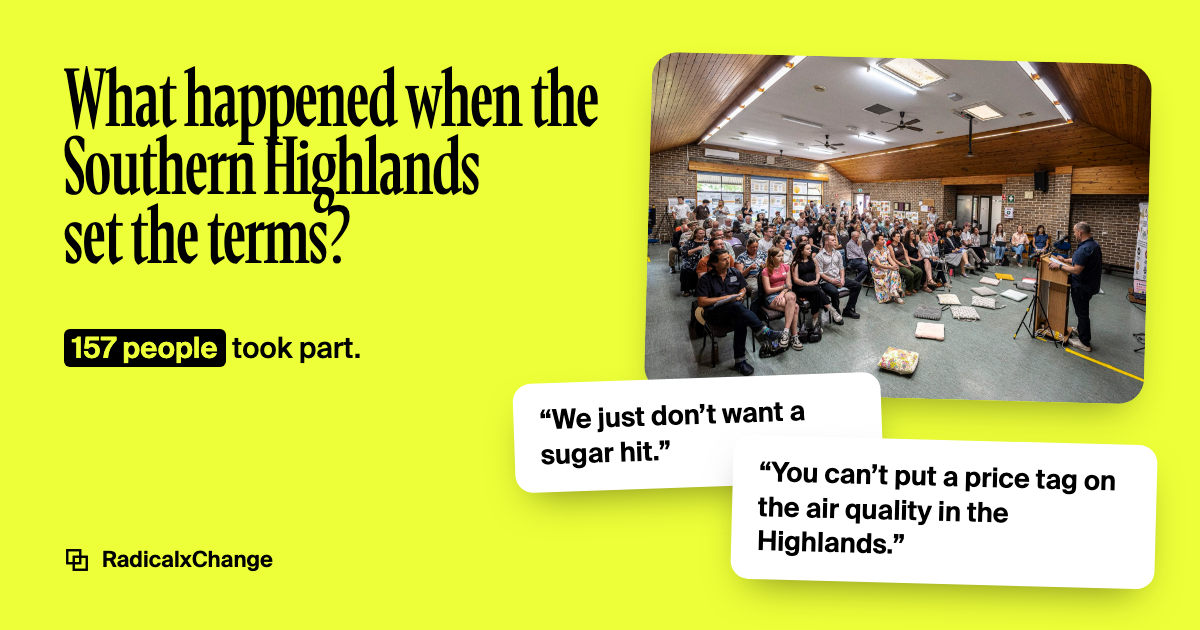
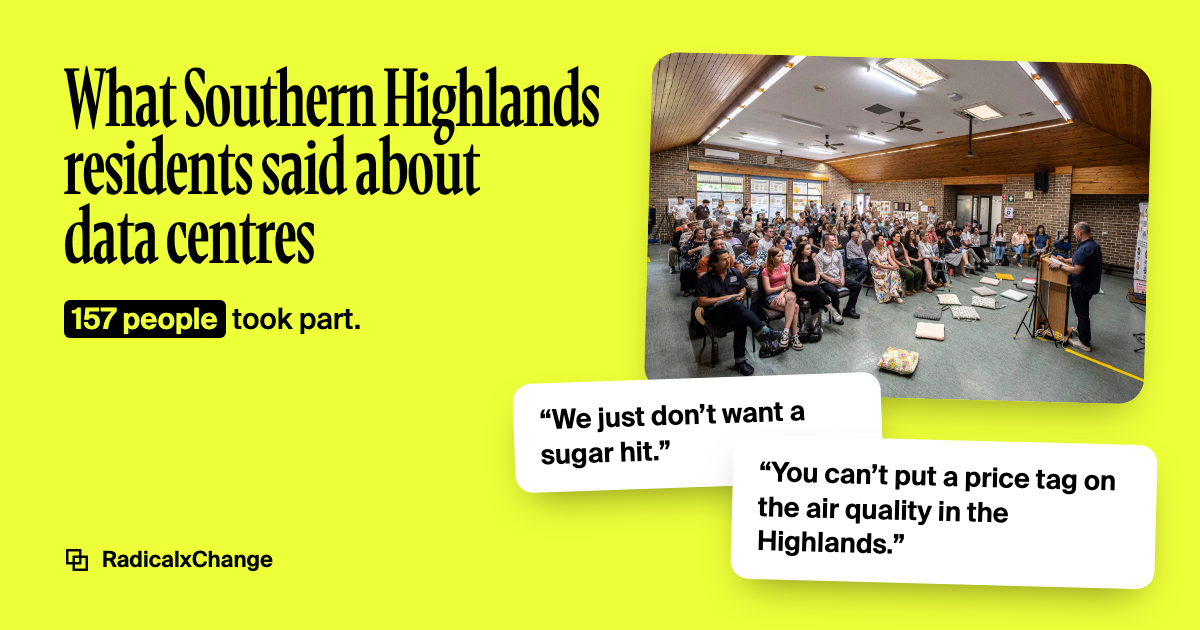
Southern Highlands page: clearer on consent, recruitment and the no
- Headline: "What Southern Highlands residents said about data centres".
- The hero says many residents don't want a data centre here at all.
- The sticker, and the /projects card, now show the 92% who agreed the
  community should have a say in whether and how data centres proceed.
- Under the principles: an informed no is as valid as a conditional yes,
  and the work should not be cited as evidence of community support for,
  or consent to, a particular development.
- The principles and partner roles now match the partner's published
  model.
- "How this worked" says plainly how participants were chosen.
- The priority vote says it ranked conditions and did not ask whether a
  data centre should go ahead; agreement sits alongside difference.
- "What happens next" adds residents' call for a pause and the community
  partner's support for a moratorium.
- No funding ask on this page.
- "Counter-offer" is gone from the home page and /projects, and the home
  page status is current.
- Link-preview image and README updated.

Changed region(s): [[0.0308, 0.0905, 0.5242, 0.4222], [0.0308, 0.4524, 0.3083, 0.6032]]

diff --git a/src/site/southern-highlands-data-centres/README.md b/src/site/southern-highlands-data-centres/README.md
@@ -31,12 +31,16 @@ statements in a fold); the conditions people want most (the whole priority
 vote as one ranked list); what the small groups said, in residents' own
 words; how it worked; and what happens next.
 
-The headline is "What happened when the Southern Highlands set the terms?",
-and the hero answers it. The lede, trimmed from a partner's draft: "After
-years of fighting proposals it never asked for, most recently a gas-powered
-data centre near Moss Vale, the Southern Highlands got on the front foot.
-Most residents who took part are sceptical of a data centre here. But
-together they set out the terms one would have to meet." It names no terms:
+The headline is "What Southern Highlands residents said about data centres"
+(a partner's wording; until 16 November 2026 it was "What happened when the
+Southern Highlands set the terms?", which could be read as the language of a
+deal). The lede, trimmed from a partner's draft: "After years of fighting
+proposals it never asked for, most recently a gas-powered data centre near
+Moss Vale, the Southern Highlands got on the front foot. Most residents who
+took part are sceptical of a data centre here, and many don't want one at
+all. But together they set out the terms one would have to meet." "Many don't
+want one at all" rests on the four outright-no statements: 35 of the 54
+people who voted on at least one agreed with at least one. It names no terms:
 the principles section just below gives them, in the community's own words
 (Jack's call, 16 November 2026). Until then six terms followed, each backed by
 a statement most of both groups agreed with or a top-seven priority-vote
@@ -108,9 +112,10 @@ Jess, who ran the project, reviewed the preview. What changed, and why:
   which read as the community giving in. They were "What would the Southern
   Highlands accept, and why?" and "A better bargain starts with a community
   that can say clearly what it would accept, and why." (a line the original
-  brief had fixed word for word). They are now "What happened when the
+  brief had fixed word for word). They became "What happened when the
   Southern Highlands set the terms?" and "A better bargain starts with a
-  community that can name its priorities, terms and shared vision." Two
+  community that can name its priorities, terms and shared vision." (Both
+  have changed since: see the two sections below.) Two
   smaller lines in the developer section followed on Jack's go-ahead: "where
   the community stands, and on what terms" (Certainty) and "what residents
   want, and why" (local officials). One resident's quote in the hero still
@@ -181,12 +186,10 @@ fact, the page now follows the release:
   philanthropic organisations") until the partners' review, which dropped
   the number. The page names no funder, and the checker fails if any other
   funding claim appears.
-- The partners appear in the release's order and roles: Highlands Homegrown
-  Economy first, as the community-led initiative convened with WinZero;
-  Regen Labs for the research and the local engagement; RadicalxChange for
-  the deliberation; BWD
-  Strategic for the independent assessment. The footer, and the two entries
-  on `/projects`, list them in that order too.
+- The partners appear in the release's order: Highlands Homegrown Economy
+  first, as the community-led initiative convened with WinZero. Their roles
+  now follow the partner's own page (see "Tightened after public criticism").
+  The footer, the home page and `/projects` list them in that order too.
 - The in-person session of 20 October is described in the release's terms
   (a community centre, the challenges and joys of regional life, how
   benefits should be governed), and "Who took part" in the notes adds First
@@ -207,9 +210,50 @@ The release's Polis totals differ slightly from the page's. The page keeps
 its own, which come from the final export under the counting rule below, and
 does not mention the difference.
 
-Still to settle with the project lead: the name of the fifth principle (see
-"Fair share" below), how the blueprint is described, and the opening
-paragraph.
+Still to settle with the project lead: how the blueprint is described. (The
+fifth principle's name is settled: the partner's published model calls it
+"Fair share".)
+
+## Tightened after public criticism (16 November 2026)
+
+In mid-November 2026 the project was publicly criticised as a "counteroffer"
+that turns a no into a conditional yes. The page was tightened so it can't be
+read as consent, or as the language of a deal:
+
+- Headline: "What Southern Highlands residents said about data centres", in
+  place of "set the terms".
+- The hero says many don't want a data centre here at all, before the terms.
+- The sticker is statement 8: 92% agreed "the community should have a
+  meaningful say in whether and under what conditions major data centres
+  proceed" (95% of the more concerned group, 8 of 10 of the more open). It
+  replaced statement 46 ("any deal struck now should still look fair…"),
+  because "any deal" reads as dealmaking. `/projects` uses the same figure.
+- Under the principles, in the partner's words: an informed no is as valid
+  as a conditional yes; the work is independent of the proponent and doesn't
+  assume any development should proceed; and it "should not be cited by any
+  proponent, consultant or party to proceedings as evidence of community
+  support for, or consent to, a particular development".
+- The principles' names and wording follow the Southern Highlands Model as
+  Highlands Homegrown Economy now publishes it (the "Clean and green"
+  principle replaced "Clean power"), so the two public versions match. The
+  partner roles follow the same page.
+- "How this worked" says plainly who took part: invited, not chosen at
+  random; a broad cross-section, especially voices often missing from
+  consultation; not designed to be a demographically representative sample;
+  lunchtime and evening sessions so working parents could join. Partners
+  had described the sample differently in public, so keep this wording
+  consistent everywhere.
+- The priority vote says it ranked conditions and did not ask whether a data
+  centre should go ahead. The agreement section says agreement sits
+  alongside difference, not in place of it.
+- "What happens next" adds the call for a pause: 70% backed an immediate
+  moratorium on new approvals until the rules catch up (statement 43), and
+  Highlands Homegrown Economy supports one. It is framed as residents' call
+  and the partner's position, not RadicalxChange's.
+- The asks no longer include a funding ask ("or help fund the next one").
+- "Counter-offer" is gone from the site: the project's entries on the home
+  page and `/projects` now describe a community-led pilot, and the home page
+  status is current.
 
 ## Layout
 
@@ -218,13 +262,14 @@ paragraph.
   text size is 20px then gets a proportionally wider page. With the px cap,
   that reader saw the hero headline break into five lines and the sticker
   cover two of the quotes.
-- The hero headline is set in three lines that never break ("What happened
-  when the / Southern Highlands / set the terms?"): each is a block-level
+- The hero headline is set in three lines that never break ("What Southern
+  Highlands / residents said about / data centres"): each is a block-level
   `nowrap` span. It is sized from its own column (`13.7cqi`, a container
-  query unit), so the longest line fills 96% of the column at any width, and
-  from the window height (`11.5vh`), so the headline, lede and buttons fit
-  one screen on a laptop. The longest line is 7.033em wide in the display
-  face. If the headline changes, measure the new longest line and set the
+  query unit), so the longest line fills about 97% of the column at any
+  width, and from the window height (`11.5vh`), so the headline, lede and
+  buttons fit one screen on a laptop. The longest line, "What Southern
+  Highlands", is 7.052em wide in the display face. If the headline changes,
+  measure the new longest line and set the
   cqi value to 96 divided by its width in em. There is no minimum size,
   because a floor would push the longest line out of a narrow phone column.
 - Screens under 45em tall get a smaller headline and lede, and screens under
@@ -505,19 +550,23 @@ paragraph.
   session's quotes be checked with participants before publication, so none
   is used. To add or change a quote, keep the speaker's words in order and
   cut only fillers and repeats.
-- The hero sticker (96% "agreed any deal should still look fair in 20 years",
-  statement 46) is deliberate. It is one of the three most widely backed
-  statements (96% of 49, with 100% of the more open group and 95% of the more concerned group). It frames
-  the page's argument in residents' own terms: a deal judged by long-term
-  fairness, not a yes or no. Statement 49 (community investment fund, 98%)
-  scores slightly higher but reads as being about money.
-- The seven principles appear word for word as the project published them
-  on 26 October 2026, under the partner two-pager's three headings. The
-  checker holds the exact wording. Principle 5 is named "Fair share" as on
-  the forum slides, which show in two of the page's photos; the Strawperson
-  document and the published text call it "Shared value". The page keeps the
-  forum's name until the published blueprint settles it. The model's dollar
-  benchmark is deliberately left out.
+- The hero sticker is statement 8: 92% "agreed the community should have a
+  say in whether and how data centres proceed" (45 of 49; the statement reads
+  "a meaningful say in whether and under what conditions major data centres
+  proceed"). It holds both halves of the process's position, whether and on
+  what terms, in residents' own vote. It replaced statement 46 ("any deal
+  struck now should still look fair…", 96%) in mid-November 2026. The
+  sticker's text is set in four short lines at .66rem so they stay inside
+  the circle.
+- The seven principles appear word for word as Highlands Homegrown Economy
+  publishes the Southern Highlands Model (the "Why" graphic on its project
+  page, read 16 November 2026), with each description's first letter
+  capitalised, under the partner two-pager's three headings. The checker
+  holds the exact wording; if the partner's page changes, change this page
+  to match. The forum slides in the photos show earlier names ("Clean
+  Power"); the 26 October media release used earlier wording and called the
+  fifth principle "Shared Value". The model's dollar benchmark is
+  deliberately left out.
 
 The page supports light and dark mode. To update copy or figures, edit the
 HTML directly; every figure on the page has been checked against the exports.
